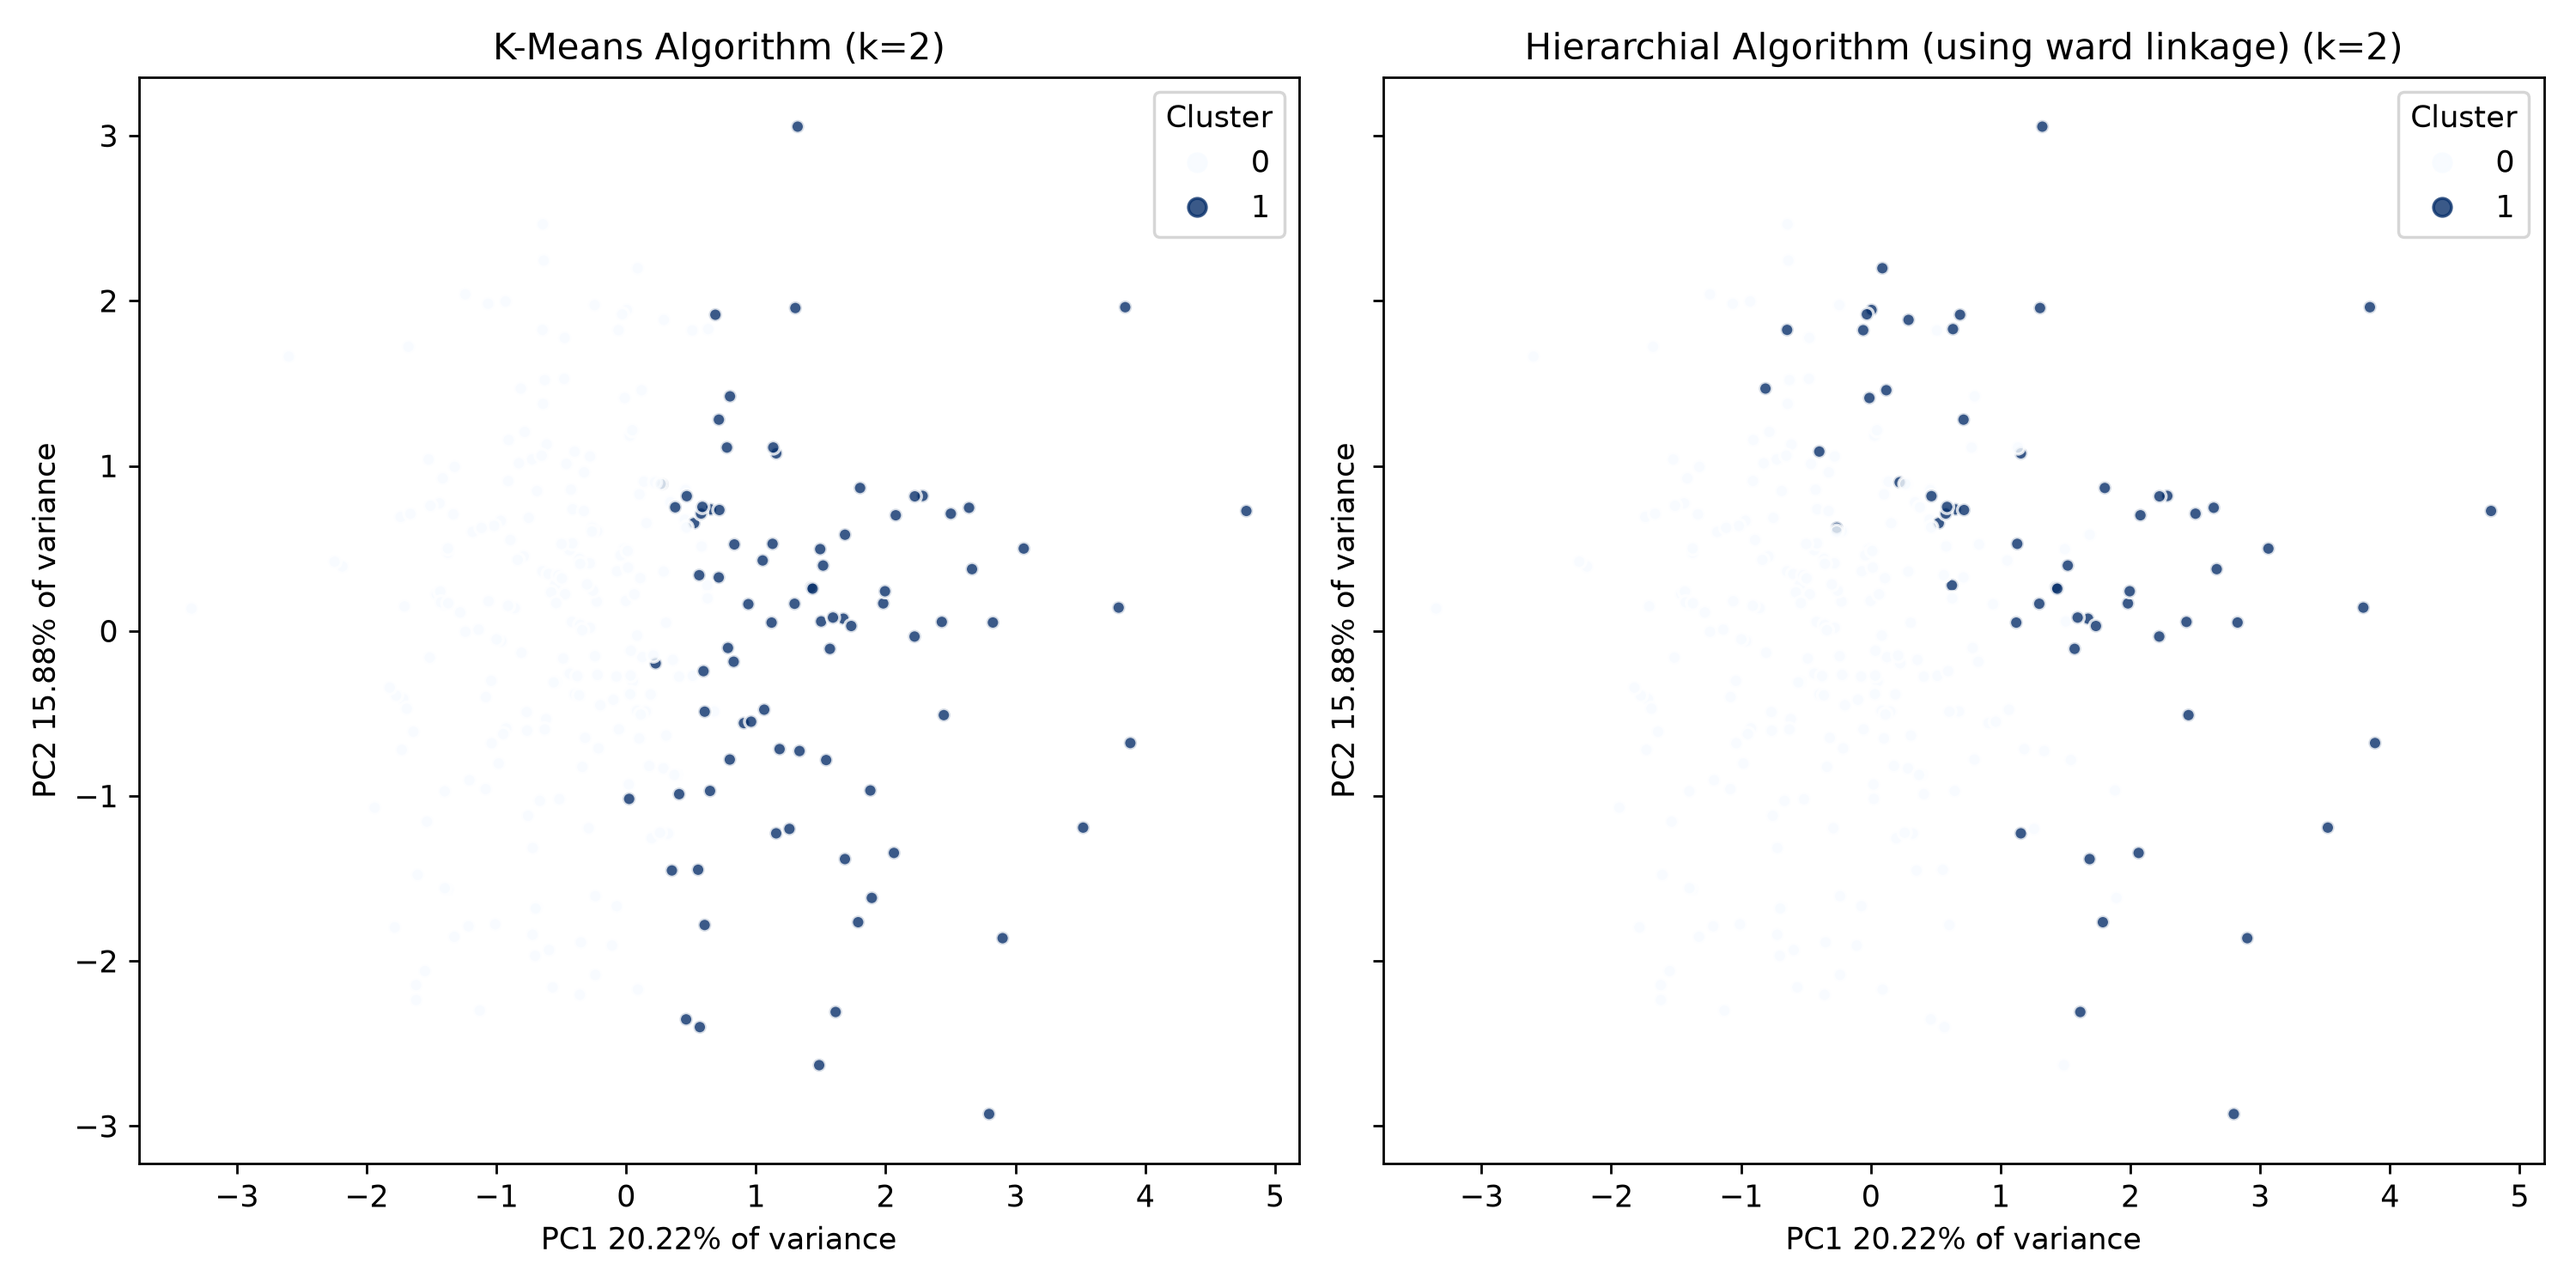
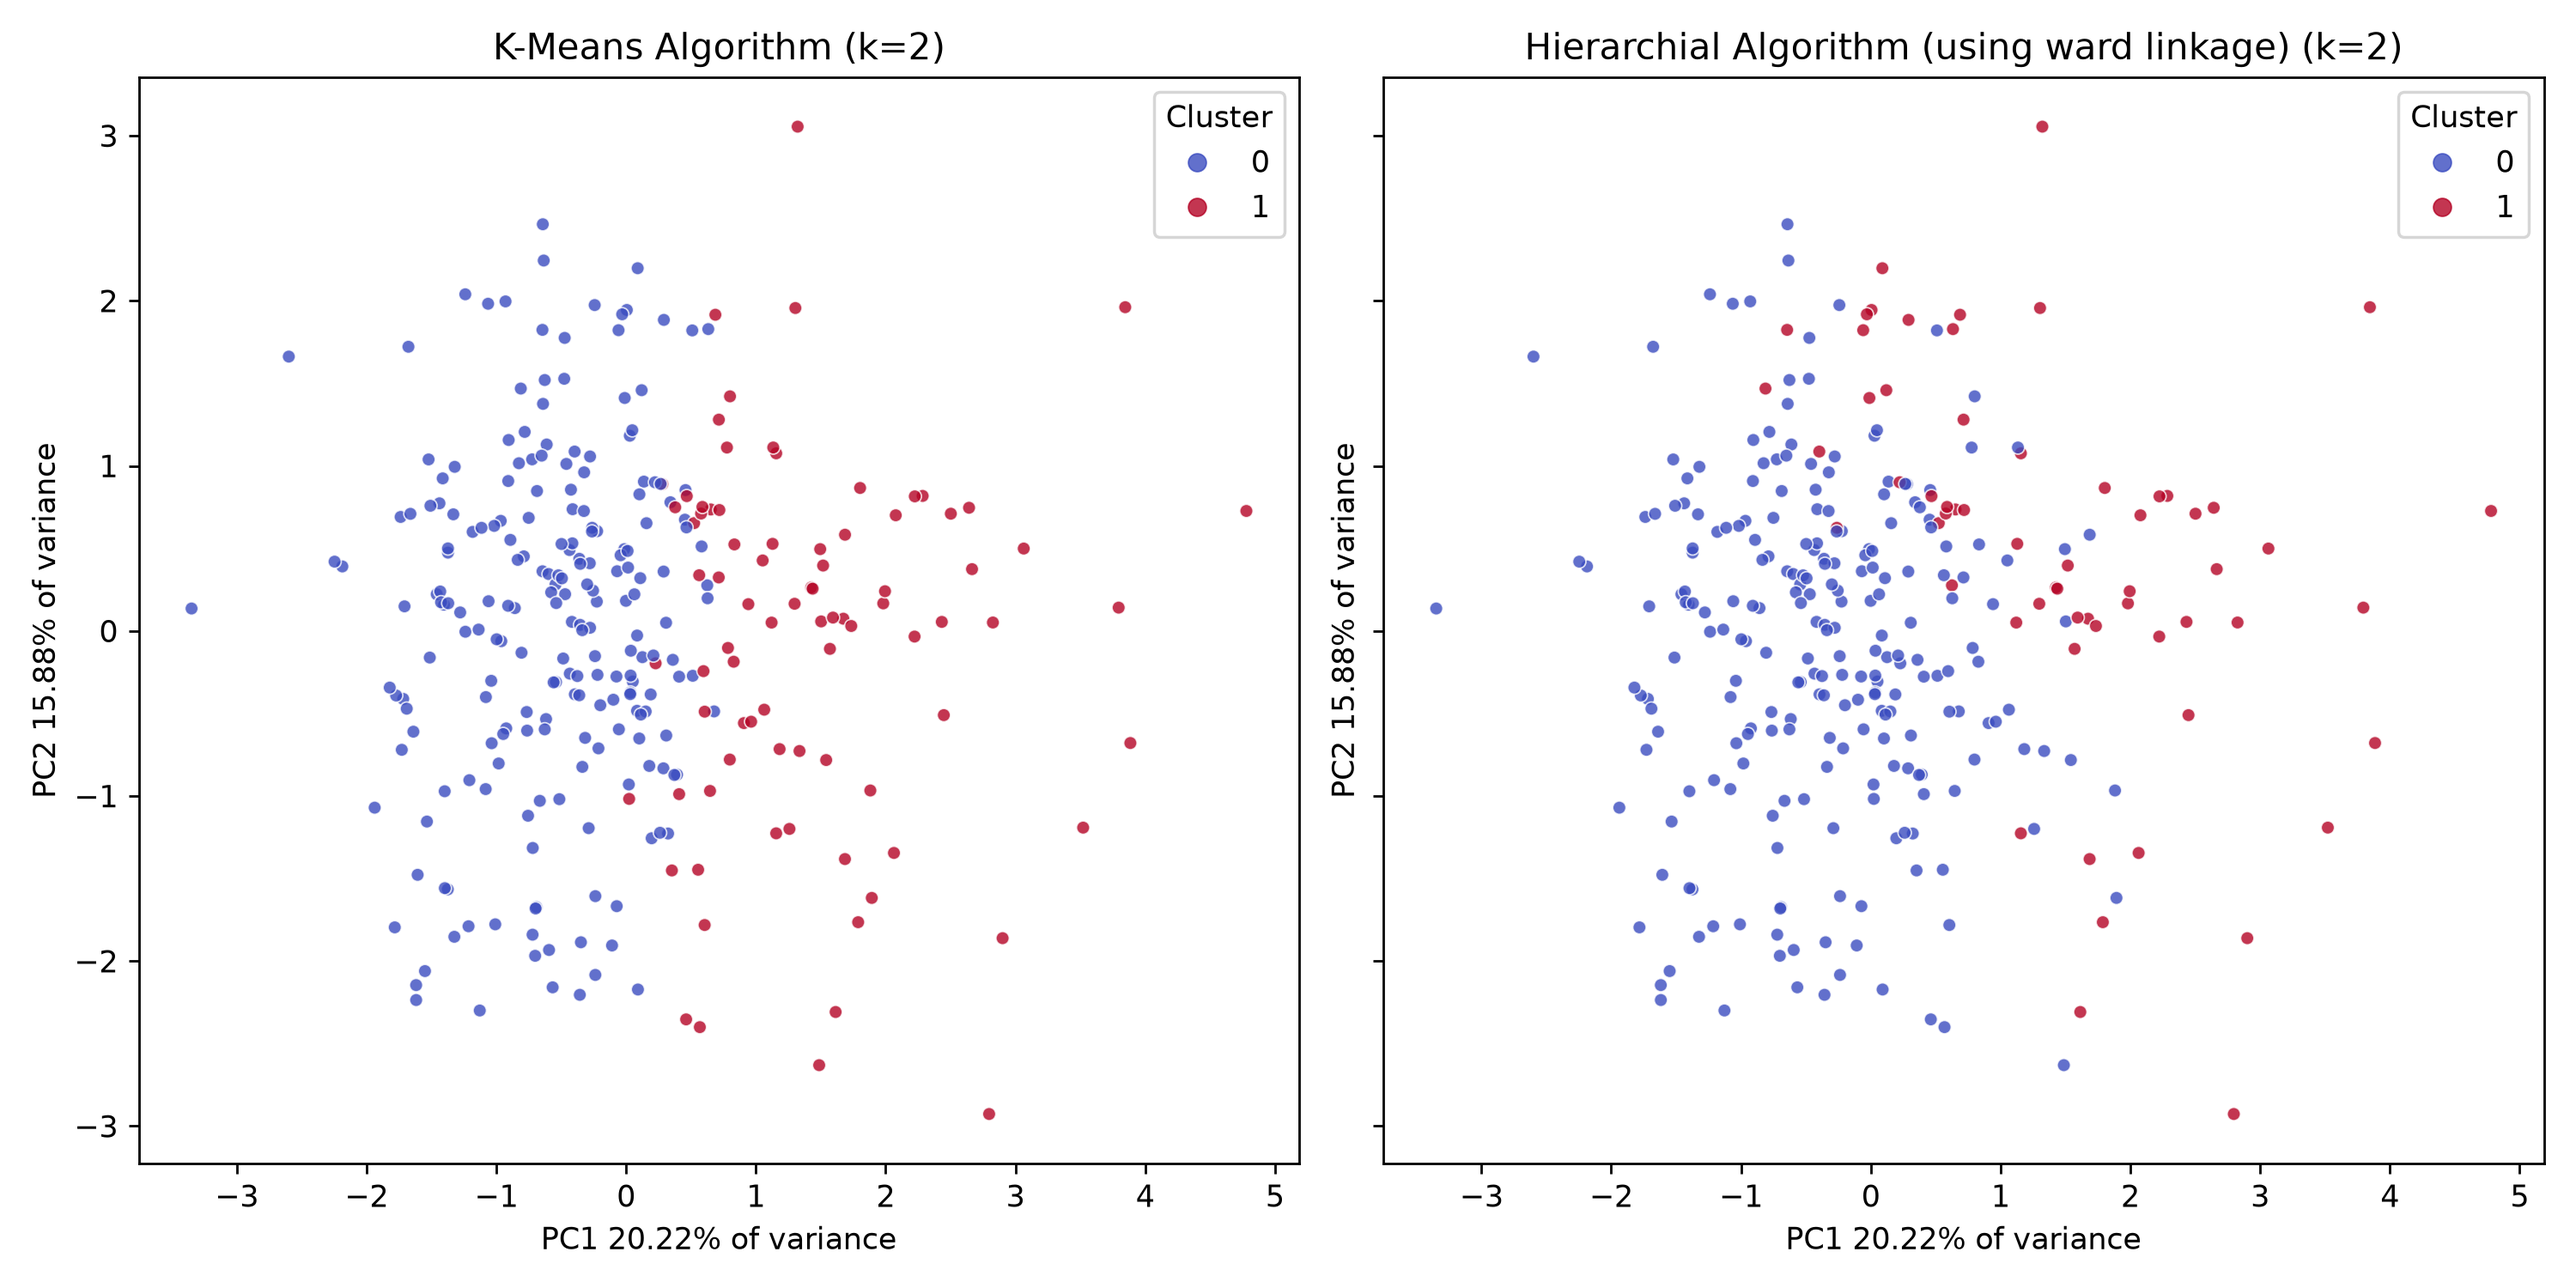
ADD: added evaluate clusters

diff --git a/main.py b/main.py
@@ -3,7 +3,7 @@ from preprocess import returnCleanData
 from pathlib import Path
 
 from sklearn.cluster import KMeans, AgglomerativeClustering
-from sklearn.metrics import silhouette_score
+from sklearn.metrics import silhouette_score, davies_bouldin_score
 from sklearn.decomposition import PCA
 from scipy.cluster.hierarchy import linkage, dendrogram
 
@@ -155,7 +155,7 @@ def plotClusters(scaledDf, KMLabels, hierarchyLabels, kValue):
     fig, axes = plt.subplots(1, 2, figsize=(12,6), sharex=True, sharey=True)
 
     for axis, labels, title in zip(axes, [KMLabels, hierarchyLabels], ["K-Means Algorithm", "Hierarchial Algorithm (using ward linkage)"]):
-        scatter = axis.scatter(pcaFitted[:, 0], pcaFitted[:, 1], c=labels, cmap="Blues", s=20, alpha=0.8, edgecolor="white")
+        scatter = axis.scatter(pcaFitted[:, 0], pcaFitted[:, 1], c=labels, cmap="coolwarm", s=20, alpha=0.8, edgecolor="white", linewidth=0.5)
         axis.set_title(f"{title} (k={kValue})")
         axis.set_xlabel(f"PC1 {variance[0]*100:.2f}% of variance")
         axis.set_ylabel(f"PC2 {variance[1]*100:.2f}% of variance")
@@ -165,9 +165,34 @@ def plotClusters(scaledDf, KMLabels, hierarchyLabels, kValue):
     plt.savefig(figurePath / "clusters.png", dpi=250)
     plt.show()
 
+def calculateTheWcss(scaledDf, labels):
+    total = 0
 
-def evaluateClusters():
-    return
+    for cluster in sorted(set(labels)):
+        points = scaledDf[labels == cluster]
+        centre = points.mean()
+        total += ((points - centre) ** 2).sum().sum()
+    
+    return total
+
+
+def evaluateClusters(scaledDf, KMLabels, hierarchyLabels):
+    results = []
+
+    for name, label in [("K-Means", KMLabels), ("Hierarchial (by ward linkage)", hierarchyLabels)]:
+        results.append({
+            "Algorithm": name,
+            "Silhouette": silhouette_score(scaledDf, label),
+            "Davies-Bouldin": davies_bouldin_score(scaledDf, label),
+            "WCSS": calculateTheWcss(scaledDf, label)
+        })
+
+    resultsDf = pd.DataFrame(results).set_index("Algorithm")
+
+    print("\n--------------Cluster Evaluation-----------------\n")
+    print(resultsDf.round(3))
+    
+    return resultsDf
 
 def compareClusters():
     return
@@ -182,5 +207,6 @@ if __name__ == "__main__":
     kValue = findBestKValue(scaledDf)
     KMLabels = KMeansClustering(scaledDf, kValue)
     hierarchyLabels = hierarchialClustering(scaledDf, kValue)
-    clusters = plotClusters(scaledDf, KMLabels, hierarchyLabels, kValue)
+    plotClusters(scaledDf, KMLabels, hierarchyLabels, kValue)
+    results = evaluateClusters(scaledDf, KMLabels, hierarchyLabels)
     
